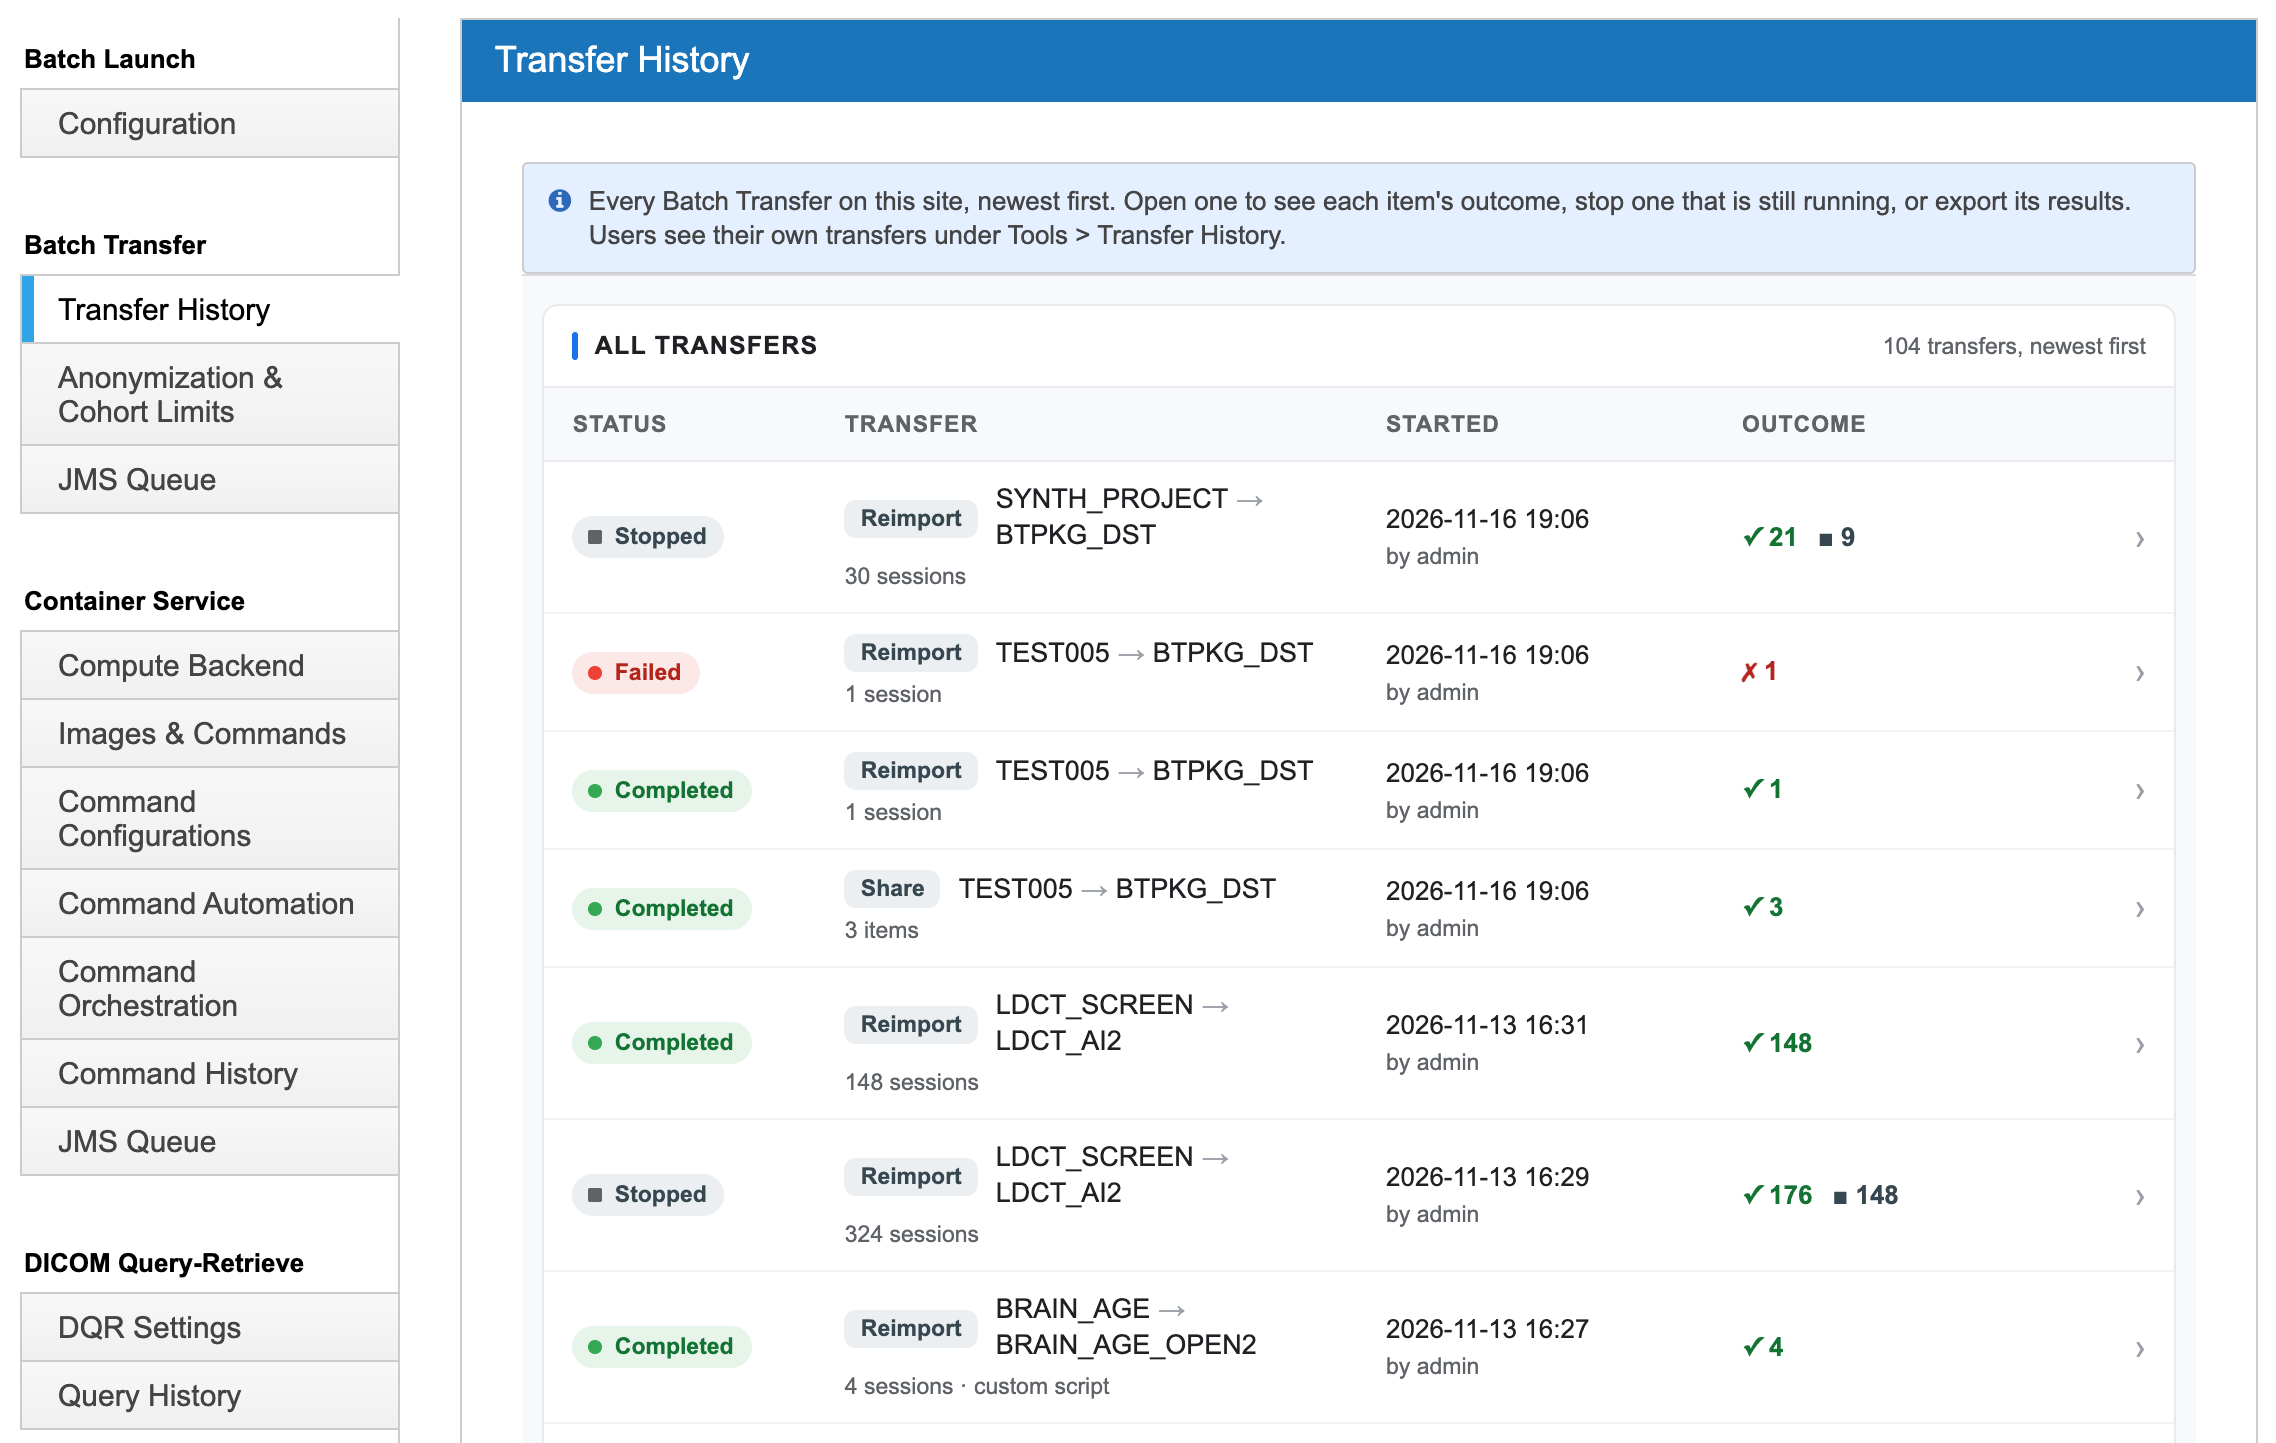
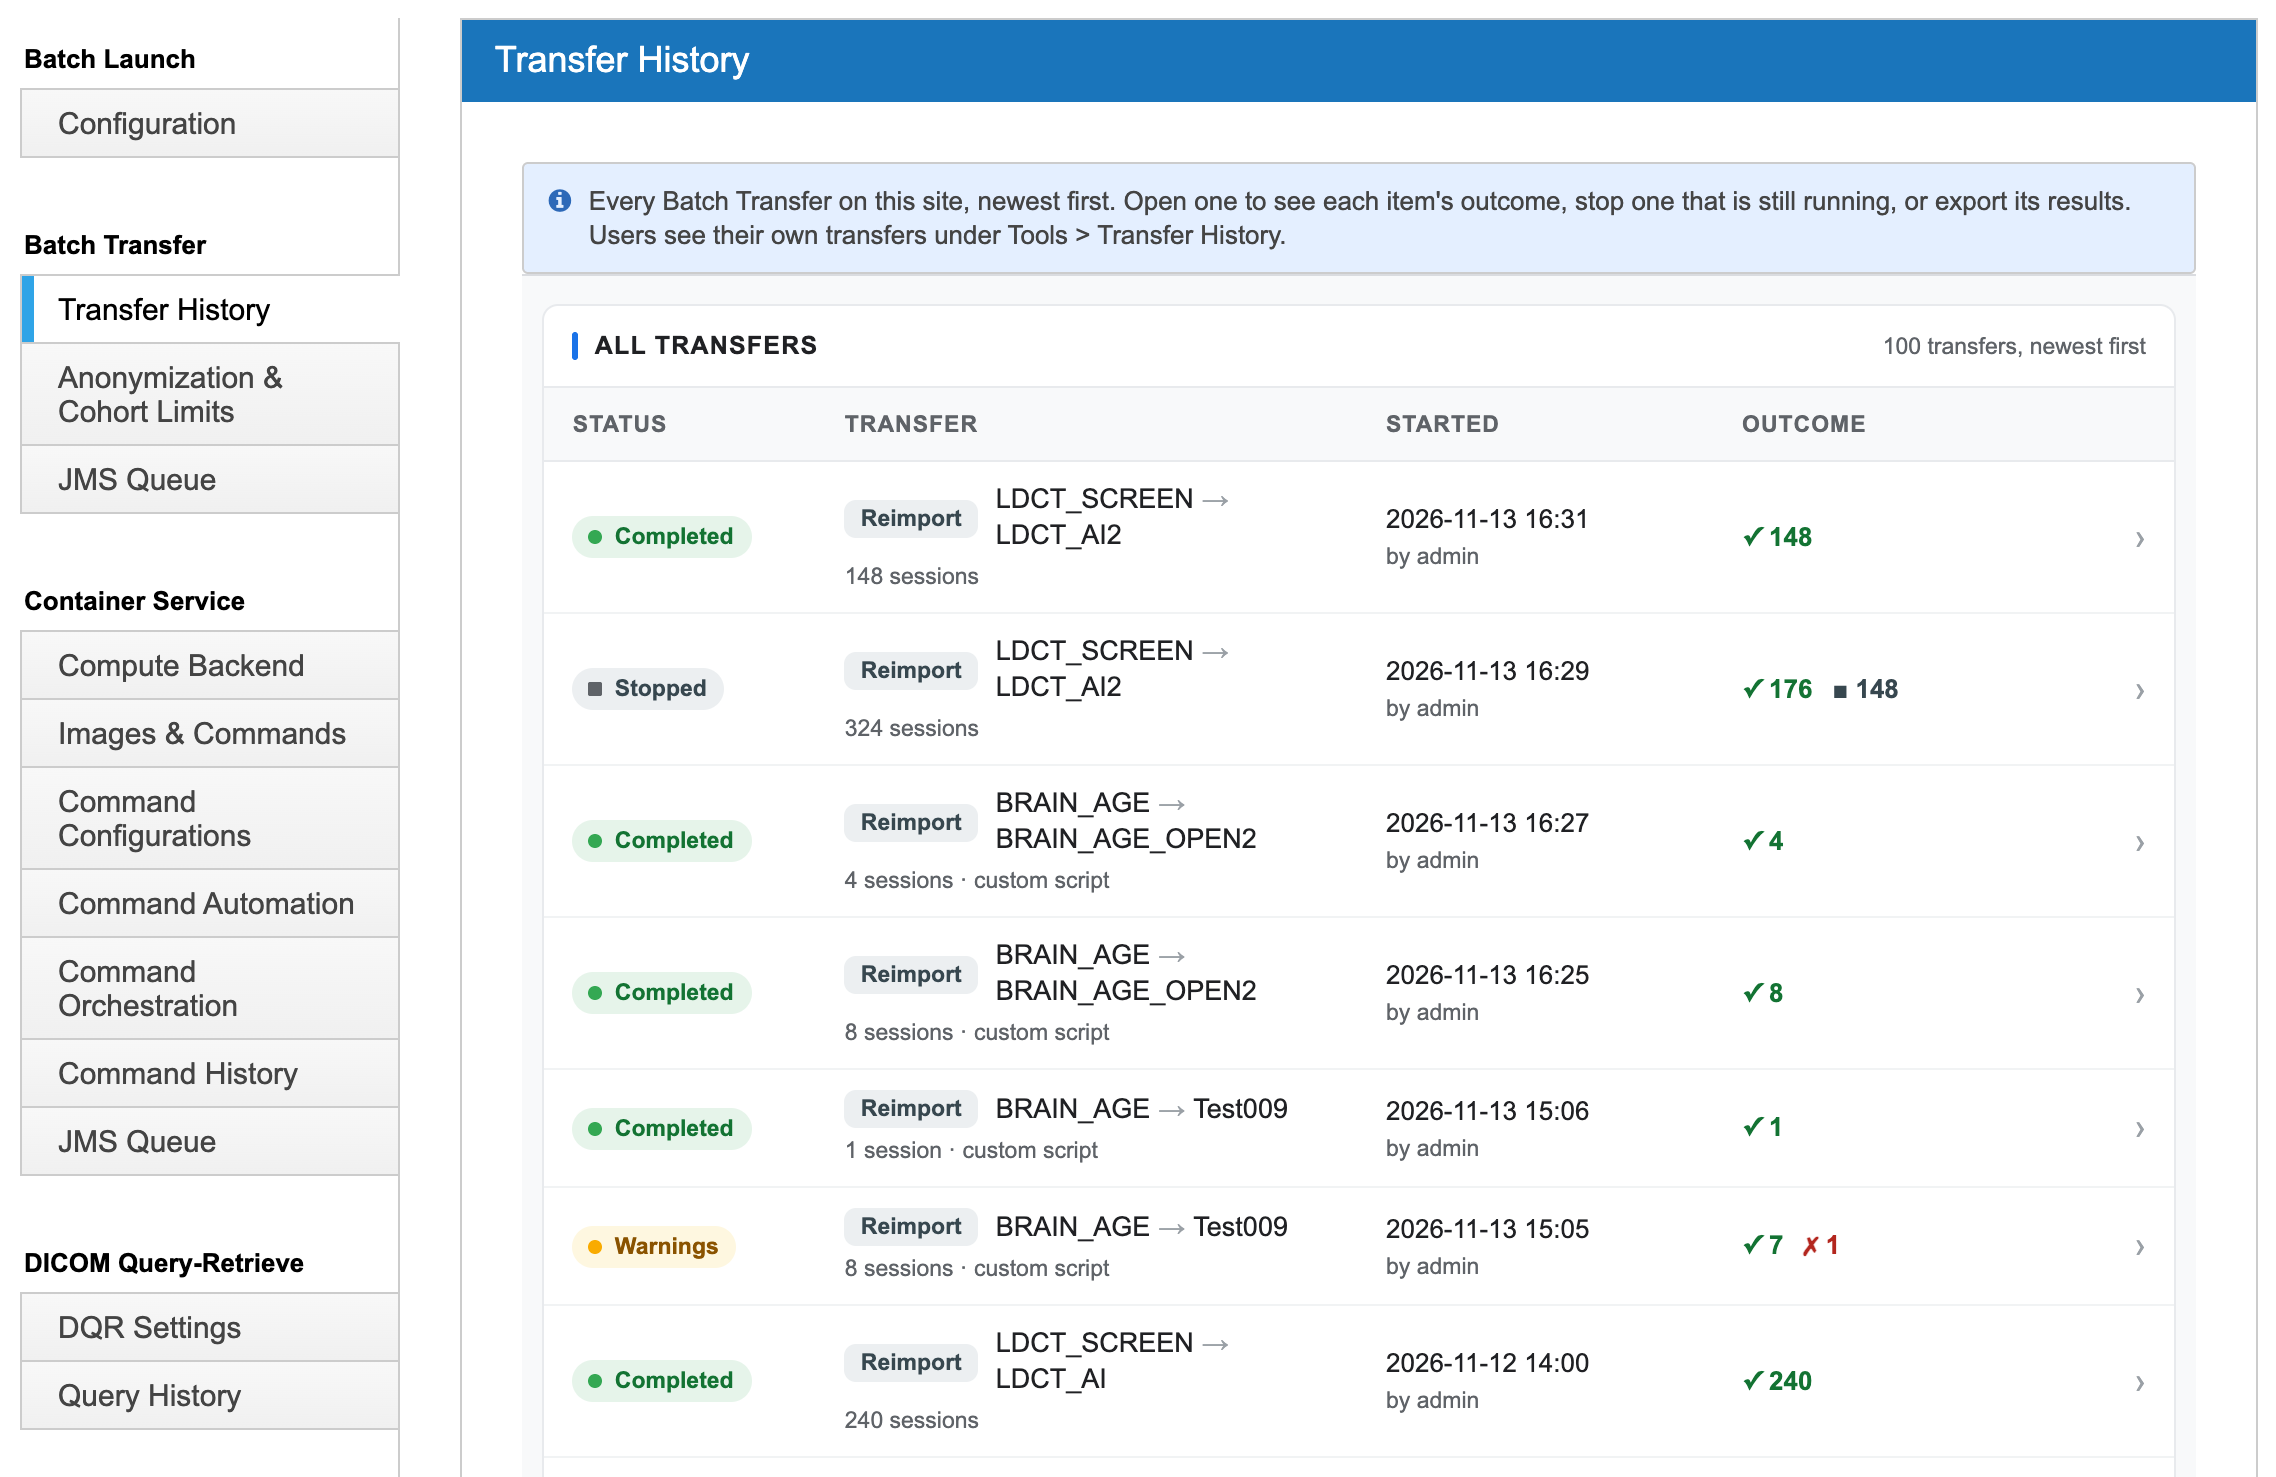
docs: correct the quick start's Summary and screenshot notes, and the README's Anon-Script note
- The quick start's Summary entry describes what the screen shows: what
  Batch Transfer can do between the source and destination, and that
  the source isn't changed and a submitted transfer runs in the
  background. It said "one sentence saying what will happen".
- The quick start says the site administrator's views in section 9
  weren't taken by jlee.
- The README says XNAT 1.10.2.1 has the importer's Anon-Script
  parameter (added in 1.10.1). It no longer names a 1.9 release, since
  2.0.0 doesn't run on XNAT 1.9.
- The Plugin Settings screenshot is retaken; the newest transfers in
  it are the demo site's own.

diff --git a/README.md b/README.md
@@ -24,7 +24,7 @@ New to Batch Transfer? The [quick start](docs/quick-start.md) walks through each
 ### Cohort and anonymization options
 
 - **CSV manifest (Reimport)** — select sessions by uploading a CSV (`source_subject_label`, `source_session_label`; a blank session label means all of the subject's sessions) instead of ticking rows. Other columns can set destination labels (`destination_subject_label`, `destination_session_label`) or feed `${csv.<column>}` placeholders in the script. A destination label in the manifest is used even when *Preserve source labels* is ticked; a blank cell falls back to that setting. Before submit, the screen checks the labels: two source subjects sent to one destination subject block Submit, and blank cells, a subject split across destination subjects, or a session label the destination already has are warnings.
-- **Custom anonymization script (Reimport)** — a DicomEdit 6 script applied to each reimported session at ingest, in addition to the site-wide and destination project scripts (the REST API can also make it replace them). Needs the importer's `Anon-Script` parameter (XNAT 1.10.1 and later, or 1.9.3.7 and later on the 1.9 line); on builds without it the option is hidden. Requires edit access on the destination project.
+- **Custom anonymization script (Reimport)** — a DicomEdit 6 script applied to each reimported session at ingest, in addition to the site-wide and destination project scripts (the REST API can also make it replace them). Needs the importer's `Anon-Script` parameter, which XNAT 1.10.2.1 has (it was added in 1.10.1); on a build without it the option is hidden. Requires edit access on the destination project.
 
 REST details: [`docs/rest-api.md`](docs/rest-api.md).
 

diff --git a/docs/quick-start.md b/docs/quick-start.md
@@ -35,7 +35,8 @@ have a QC assessment. The study team moves data out of HA_MRI to three other pro
 HA_OPEN has a project anonymization script that removes the birth date, sets the institution name and marks the
 patient identity as removed.
 
-The screenshots were taken by `jlee`, an owner of all four projects.
+The screenshots were taken by `jlee`, an owner of all four projects, except the site administrator's views in
+[section 9](#9-history-without-a-project).
 
 ## 2. Open Batch Transfer
 
@@ -62,7 +63,8 @@ running transfers. New transfer has these parts, from top to bottom:
 
 - **Help** (left): a short topic for each part of the screen. Click **«** to hide the column and **»** to show it
   again; Batch Transfer remembers your choice. The **?** next to each heading scrolls the column to its topic.
-- **Summary**: one sentence saying what will happen, naming the source and destination.
+- **Summary**: what Batch Transfer can do between the source and destination it names, and a reminder that the
+  source isn't changed and that a submitted transfer runs in the background.
 - **Transfer**: the source, which is fixed by where you opened the screen, and the **Destination project** list,
   which shows each project's running title.
 - **Operation**: Share, Clone or Reimport.
